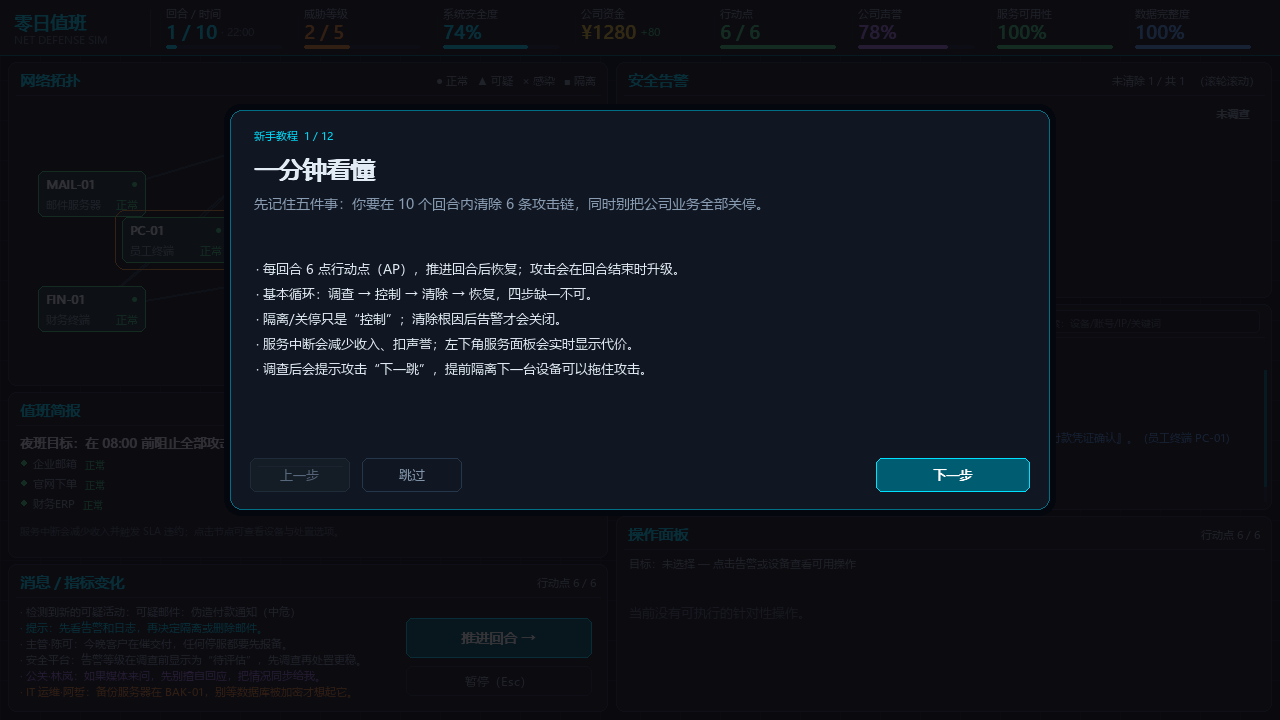
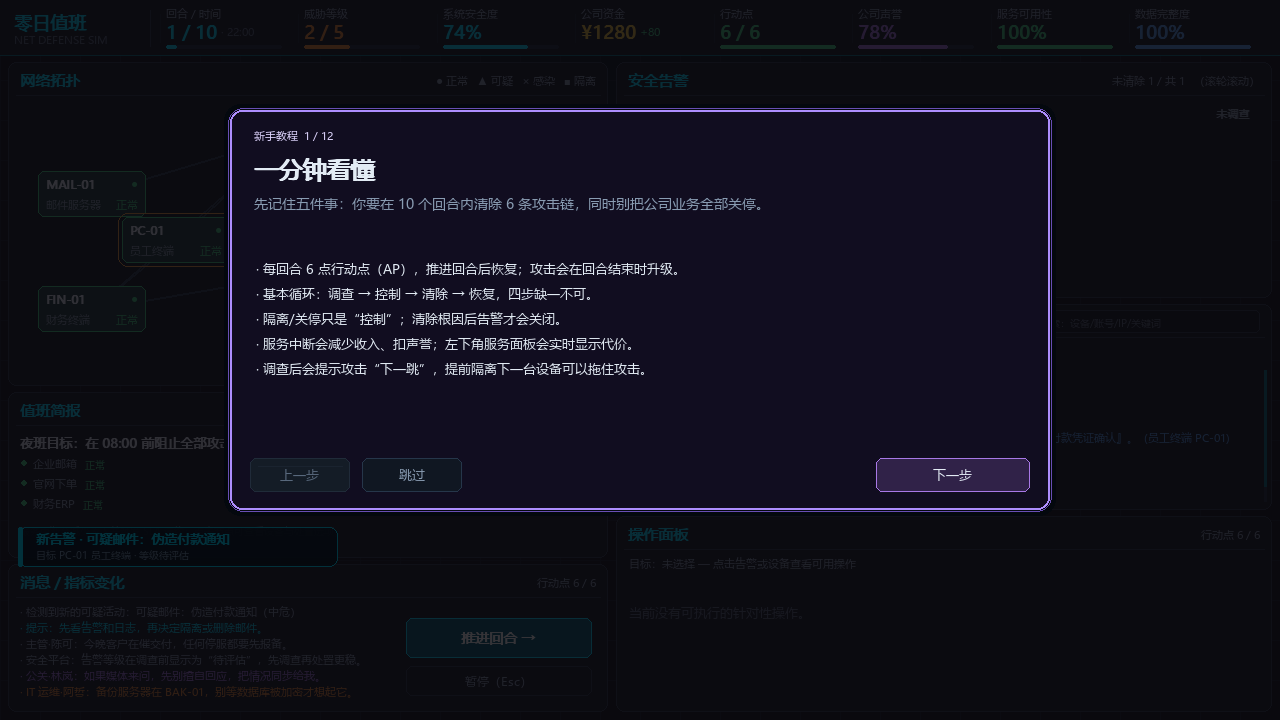
feat: v1.4.1 新手提示框改为紫罗兰教程配色

diff --git a/docs/index.html b/docs/index.html
@@ -12,9 +12,12 @@
   <link rel="icon" href="assets/icon.png">
   <link rel="preload" as="image" href="assets/gameplay.png">
   <link rel="stylesheet" href="style.css">
+  <noscript><style>.reveal{opacity:1 !important;transform:none !important}</style></noscript>
 </head>
 <body>
   <a class="skip" href="#top">跳到正文</a>
+
+  <div class="progress" aria-hidden="true"><i></i></div>
 
   <div class="bg" aria-hidden="true">
     <span class="aurora aurora-cyan"></span>
@@ -50,21 +53,23 @@
     </div>
   </div>
 
-  <header class="nav">
-    <a class="brand" href="#top">
-      <span class="brand-mark">0</span>
-      <span class="brand-text">零日值班<em>ZERO-DAY DUTY</em></span>
-    </a>
-    <nav class="nav-links" aria-label="页面导航">
-      <a href="#features">玩法</a>
-      <a href="#screens">截图</a>
-      <a href="#start">上手</a>
-      <a href="#safety">声明</a>
-    </nav>
-    <a class="nav-gh" href="https://github.com/telling890/zero-day-duty" target="_blank" rel="noreferrer">
-      <svg viewBox="0 0 24 24" aria-hidden="true"><path d="M12 2a10 10 0 0 0-3.16 19.49c.5.09.68-.22.68-.48v-1.7c-2.78.6-3.37-1.34-3.37-1.34-.45-1.16-1.11-1.47-1.11-1.47-.91-.62.07-.6.07-.6 1 .07 1.53 1.03 1.53 1.03.89 1.53 2.34 1.09 2.91.83.09-.65.35-1.09.63-1.34-2.22-.25-4.56-1.11-4.56-4.95 0-1.09.39-1.98 1.03-2.68-.1-.25-.45-1.27.1-2.65 0 0 .84-.27 2.75 1.02a9.6 9.6 0 0 1 5 0c1.91-1.29 2.75-1.02 2.75-1.02.55 1.38.2 2.4.1 2.65.64.7 1.03 1.59 1.03 2.68 0 3.85-2.34 4.7-4.57 4.95.36.31.68.92.68 1.86v2.75c0 .27.18.58.69.48A10 10 0 0 0 12 2Z"/></svg>
-      GitHub
-    </a>
+  <header class="nav-wrap">
+    <div class="nav">
+      <a class="brand" href="#top">
+        <span class="brand-mark">0</span>
+        <span class="brand-text">零日值班<em>ZERO-DAY DUTY</em></span>
+      </a>
+      <nav class="nav-links" aria-label="页面导航">
+        <a href="#features">玩法</a>
+        <a href="#screens">截图</a>
+        <a href="#start">上手</a>
+        <a href="#safety">声明</a>
+      </nav>
+      <a class="nav-gh" href="https://github.com/telling890/zero-day-duty" target="_blank" rel="noreferrer">
+        <svg viewBox="0 0 24 24" aria-hidden="true"><path d="M12 2a10 10 0 0 0-3.16 19.49c.5.09.68-.22.68-.48v-1.7c-2.78.6-3.37-1.34-3.37-1.34-.45-1.16-1.11-1.47-1.11-1.47-.91-.62.07-.6.07-.6 1 .07 1.53 1.03 1.53 1.03.89 1.53 2.34 1.09 2.91.83.09-.65.35-1.09.63-1.34-2.22-.25-4.56-1.11-4.56-4.95 0-1.09.39-1.98 1.03-2.68-.1-.25-.45-1.27.1-2.65 0 0 .84-.27 2.75 1.02a9.6 9.6 0 0 1 5 0c1.91-1.29 2.75-1.02 2.75-1.02.55 1.38.2 2.4.1 2.65.64.7 1.03 1.59 1.03 2.68 0 3.85-2.34 4.7-4.57 4.95.36.31.68.92.68 1.86v2.75c0 .27.18.58.69.48A10 10 0 0 0 12 2Z"/></svg>
+        GitHub
+      </a>
+    </div>
   </header>
 
   <main id="top">
@@ -72,7 +77,7 @@
       <div class="hero-copy">
         <p class="eyebrow reveal">
           <span class="eyebrow-dot"></span>NETWORK DEFENSE SIMULATOR
-          <span class="pill">v1.4.0</span>
+          <span class="pill">v1.4.1</span>
         </p>
         <h1 class="reveal" style="--i:1">守到<br><em>早上八点。</em></h1>
         <p class="lead reveal" style="--i:2">
@@ -288,8 +293,10 @@
         </figure>
 
         <aside class="gallery-note reveal" style="--i:6">
-          <p class="section-kicker">AFTER THE SHIFT</p>
-          <p>一早八点，结算会告诉你三件事：<strong>有没有守住</strong>、<strong>业务被拖累了多少</strong>、<strong>下一次该先做什么</strong>。</p>
+          <div class="note-copy">
+            <p class="section-kicker">AFTER THE SHIFT</p>
+            <p>一早八点，结算会告诉你三件事：<strong>有没有守住</strong>、<strong>业务被拖累了多少</strong>、<strong>下一次该先做什么</strong>。</p>
+          </div>
           <div class="rank">
             <span class="rank-badge">S</span>
             <div><strong>123 分 · 完美防守</strong><span>零日被拦在备份服务器之外。</span></div>

diff --git a/ui/tutorial_screen.py b/ui/tutorial_screen.py
@@ -209,7 +209,7 @@ class TutorialScreen:
                 Button(
                     (card.right - 174, y, 154, 34),
                     "进入实战演练" if self.page == len(PAGES) - 1 else "下一步",
-                    style="primary",
+                    style="purple",
                     font_size=13,
                 ),
                 "next",
@@ -225,12 +225,13 @@ class TutorialScreen:
         card = pygame.Rect(page.card)
         shadow = card.inflate(12, 12)
         pygame.draw.rect(surface, (4, 8, 14), shadow, border_radius=16)
-        pygame.draw.rect(surface, settings.PANEL_BG, card, border_radius=12)
-        pygame.draw.rect(surface, settings.ACCENT_DARK, card, 1, border_radius=12)
+        pygame.draw.rect(surface, (17, 13, 32), card, border_radius=12)
+        pygame.draw.rect(surface, settings.TUTORIAL_DARK, card.inflate(4, 4), 1, border_radius=15)
+        pygame.draw.rect(surface, settings.TUTORIAL, card, 2, border_radius=12)
 
         tiny = draw_utils.get_font(11)
         surface.blit(
-            tiny.render(f"新手教程  {self.page + 1} / {len(PAGES)}", True, settings.ACCENT),
+            tiny.render(f"新手教程  {self.page + 1} / {len(PAGES)}", True, settings.TUTORIAL_LIGHT),
             (card.x + 24, card.y + 18),
         )
         title_font = draw_utils.get_font(24, True)
@@ -283,7 +284,7 @@ class TutorialScreen:
         if target is not None:
             rect = pygame.Rect(target).clip(surface.get_rect())
             pulse = (pygame.time.get_ticks() // 220) % 2
-            color = settings.YELLOW if pulse else settings.ACCENT
+            color = settings.TUTORIAL_LIGHT if pulse else settings.TUTORIAL
             pygame.draw.rect(surface, color, rect.inflate(4, 4), 2, border_radius=6)
 
     # ------------------------------------------------------------------
@@ -376,7 +377,7 @@ class TutorialGuide:
             style="ghost",
             font_size=11,
         )
-        self.start_button = Button((380, 420, 220, 44), "开始正式值班", style="primary")
+        self.start_button = Button((380, 420, 220, 44), "开始正式值班", style="purple")
         self.menu_button = Button((620, 420, 200, 44), "返回主菜单", style="ghost")
 
     def reset(self) -> None:
@@ -415,7 +416,7 @@ class TutorialGuide:
             return
         game.audio.play("success")
         step = self.STEPS[self.step]
-        game.push_message(f"{step['title']}：{step['instruction']}", settings.ACCENT)
+        game.push_message(f"{step['title']}：{step['instruction']}", settings.TUTORIAL_LIGHT)
 
     # ------------------------------------------------------------------
     def draw(self, surface: pygame.Surface, game: "object") -> None:
@@ -426,9 +427,11 @@ class TutorialGuide:
             return
         self._draw_pointer(surface, game)
         step = self.STEPS[self.step]
-        color = step["color"]
-        pygame.draw.rect(surface, (10, 18, 27), self.card, border_radius=9)
+        color = settings.TUTORIAL
+        pygame.draw.rect(surface, (15, 12, 30), self.card, border_radius=9)
+        pygame.draw.rect(surface, settings.TUTORIAL_DARK, self.card.inflate(4, 4), 1, border_radius=12)
         pygame.draw.rect(surface, color, self.card, 2, border_radius=9)
+        pygame.draw.rect(surface, color, (self.card.x, self.card.y + 12, 4, self.card.height - 24), border_radius=2)
         tiny = draw_utils.get_font(10)
         surface.blit(
             tiny.render(f"实战演练  {self.step + 1} / {len(self.STEPS)}", True, color),
@@ -477,7 +480,7 @@ class TutorialGuide:
                 fill = (38, 52, 66)
             pygame.draw.rect(surface, fill, rect, border_radius=3)
         surface.blit(
-            tiny.render("提示：先调查，再控制；清除后记得恢复业务。", True, settings.TEXT_FAINT),
+            tiny.render("提示：先调查，再控制；清除后记得恢复业务。", True, (186, 172, 214)),
             (self.card.x + 18, self.card.y + 154),
         )
         self.exit_button.draw(surface, pygame.mouse.get_pos())
@@ -487,7 +490,7 @@ class TutorialGuide:
         if target is None:
             return
         pulse = (pygame.time.get_ticks() // 200) % 2
-        color = settings.YELLOW if pulse else settings.ACCENT
+        color = settings.TUTORIAL_LIGHT if pulse else settings.TUTORIAL
         pygame.draw.rect(surface, color, target.inflate(4, 4), 2, border_radius=6)
         start = (self.card.right + 2, self.card.centery)
         end = (target.left - 4, target.centery)

diff --git a/settings.py b/settings.py
@@ -52,7 +52,7 @@ HISTORY_FILE = SAVE_DIR / "history.json"
 # 基本信息
 # ---------------------------------------------------------------------------
 GAME_TITLE = "零日值班：网络安全防御模拟器"
-GAME_VERSION = "v1.4.0"
+GAME_VERSION = "v1.4.1"
 COMPANY_NAME = "云栖示例科技（虚构）"
 
 SCREEN_WIDTH = 1280
@@ -127,6 +127,9 @@ YELLOW = (240, 196, 60)
 ORANGE = (240, 140, 50)
 RED = (236, 88, 84)
 PURPLE = (168, 120, 230)
+TUTORIAL = (174, 142, 255)
+TUTORIAL_LIGHT = (224, 214, 255)
+TUTORIAL_DARK = (104, 78, 180)
 BLUE = (84, 160, 240)
 WHITE = (255, 255, 255)
 BLACK = (0, 0, 0)

diff --git a/README.md b/README.md
@@ -33,7 +33,7 @@
 
 ![结算界面](assets/screenshots/result.png)
 
-> Windows 免安装版：[下载 v1.4.0 Release](https://github.com/telling890/zero-day-duty/releases/latest)（`ZeroDayDuty-Windows-x64.zip`），解压后双击 `零日值班.exe`，无需安装 Python。
+> Windows 免安装版：[下载 v1.4.1 Release](https://github.com/telling890/zero-day-duty/releases/latest)（`ZeroDayDuty-Windows-x64.zip`），解压后双击 `零日值班.exe`，无需安装 Python。
 > 源码仓库：[github.com/telling890/zero-day-duty](https://github.com/telling890/zero-day-duty)
 > 项目主页：[telling890.github.io/zero-day-duty](https://telling890.github.io/zero-day-duty/)
 
@@ -90,7 +90,7 @@ python main.py
 | 日志搜索 | 点击右上角搜索框输入关键词（英文、数字最稳定） |
 | 日志 / 告警滚动 | 鼠标悬停在对应区域，滚轮上下滚动 |
 
-## 四、v1.4.0 已实现内容
+## 四、v1.4.1 已实现内容
 
 - Pygame 窗口、主菜单、12 页新手教程 + 6 步实战演练、暂停、帮助手册、结算、安全加固商店、历史排行榜、剧情决策浮层
 - v1.4 正确反馈：操作后屏幕右下显示“调查完成/控制成功/清除成功/恢复完成”，并标出所处阶段
@@ -334,7 +334,7 @@ py -3.10 tests\test_smoke.py
 
 ### 手工检查清单
 
-- [ ] 启动窗口标题为“零日值班：网络安全防御模拟器 v1.4.0”，尺寸 1280×720
+- [ ] 启动窗口标题为“零日值班：网络安全防御模拟器 v1.4.1”，尺寸 1280×720
 - [ ] 主菜单开始值班后出现夜班交接简报，点击“进入值班”关闭
 - [ ] 左下角服务面板显示 6 项业务服务；隔离关键设备后出现“中断”和收入损失
 - [ ] 隔离事件后告警显示“已控制·待清除”，设备面板出现“清除威胁”
